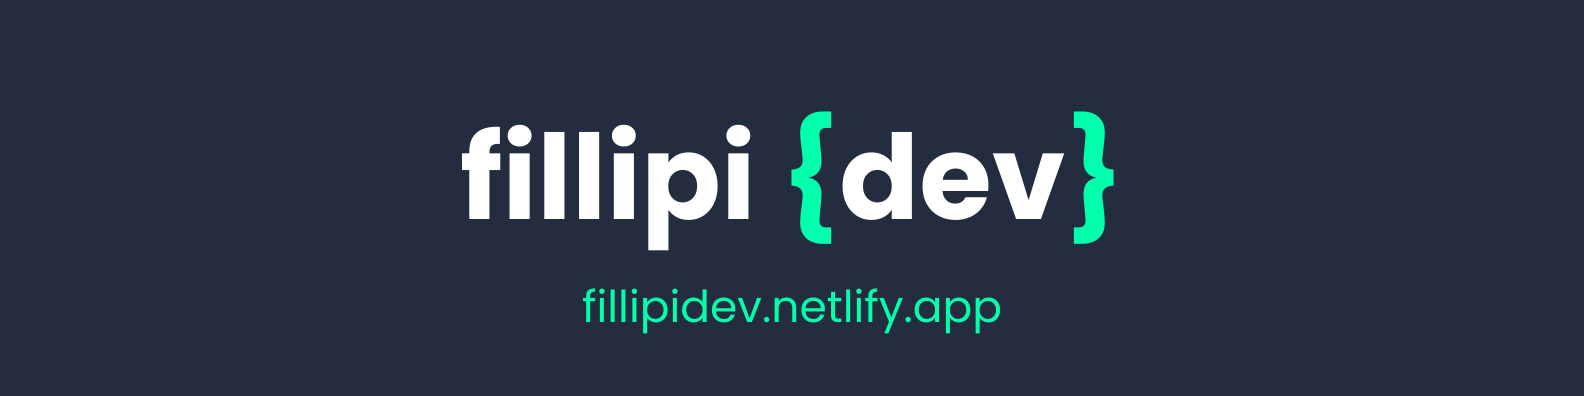
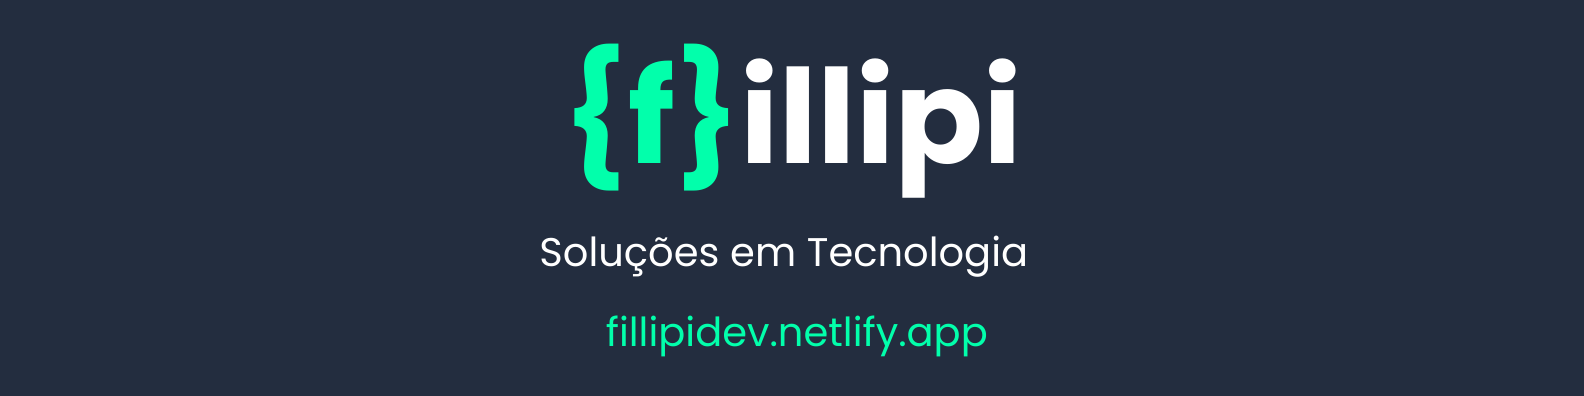
ajustando identidade visual metatag e css

Changed region(s): [[0.2784, 0.0909, 0.7115, 0.697], [0.3712, 0.7273, 0.6496, 0.9091]]

diff --git a/index.html b/index.html
@@ -7,19 +7,19 @@
     <meta name="viewport" content="width=device-width, initial-scale=1.0"/>
     <meta http-equiv="X-UA-Compatible" content="IE=edge"/>
     <meta name="author" content="@fillipidev"/>
-    <meta name="keywords" content="fillipi{dev}"/>
-    <meta name="description" content="fillipi{dev} - Soluções em Tecnologia"/>
+    <meta name="keywords" content="Fillipi - Soluções em Tecnologia"/>
+    <meta name="description" content="Fillipi - Soluções em Tecnologia"/>
     <meta property="og:locale" content="pt_BR"/>
-    <meta property="og:title" content="fillipi{dev}"/>
-    <meta property="og:description" content="Fillipi{dev} - Soluções em Tecnologia"/>
-    <meta property="og:site_name" content="fillipi{dev}"/>
+    <meta property="og:title" content="Fillipi - Soluções em Tecnologia"/>
+    <meta property="og:description" content="Fillipi - Soluções em Tecnologia"/>
+    <meta property="og:site_name" content="Fillipi - Soluções em Tecnologia"/>
     <meta property="og:type" content="website"/>
-    <meta property="og:image:alt" content="fillipi{dev}"/>
+    <meta property="og:image:alt" content="Fillipi - Soluções em Tecnologia"/>
     <meta property="og:url" content="https://fillipi.netlify.app"/>
     <meta property="og:image" content="./img/metatag.png"/>
     <meta name="twitter:card" content="summary_large_image"/>
-    <meta name="twitter:title" content="fillipi{dev}"/>
-    <meta name="twitter:description" content="Fillipi{dev} - Soluções em Tecnologia"/>
+    <meta name="twitter:title" content="Fillipi - Soluções em Tecnologia"/>
+    <meta name="twitter:description" content="Fillipi - Soluções em Tecnologia"/>
     <meta name="twitter:site" content="https://fillipi.netlify.app"/>
     <meta name="twitter:creator" content="@fillipidev"/>
     <meta name="twitter:image" content="./img/metatag.png"/>
@@ -29,7 +29,7 @@
     <link rel="icon" type="image/png" sizes="32x32" href="./img/icone.png"/>
     <link rel="icon" type="image/png" sizes="16x16" href="./img/icone.png"/>
     <script src="./js/font-awesome.js" crossorigin="anonymous"></script>
-    <title>fillipi{dev}</title>
+    <title>Fillipi - Soluções em Tecnologia</title>
 </head>
 <body>
     <div id="indicador-navegacao"></div>
@@ -58,20 +58,13 @@
 
     <section class="perfil">
         <figure id="perfil-img" class="perfil-img">
-            <img src="./img/perfil.jpg" alt="Foto do perfil" title="Foto do perfil">
+            <img src="./img/perfil.png" alt="Foto do perfil" title="Foto do perfil">
         </figure>
         <section class="perfil-info">
-            <h1 class="h1-perfil">Fillipi</h1>
+            <h1 class="h1-perfil">Fillipi Santos</h1>
             <aside class="aside-perfil">
-                <strong><p class="perfil-endereco">Desenvolvedor PHP</p></strong>
-                <p class="perfil-cidade">Bacharel em análise de sistemas.<br>Transformo problemas em soluções com linguagens de programação e afins.</p>
-                <!-- <ul class="perfil-mapa">
-                    <li>
-                        <a class="link-span-perfil" target="_blank" href="https://www.google.com/maps/search/R. Antônio Alves Cardoso, União dos Palmares">
-                            <span><i class="fa-solid fa-location-dot"></i>Solicitar Demonstração</span>
-                        </a>
-                    </li>
-                </ul> -->
+                <strong><p class="perfil-endereco">Soluções em Tecnologia</p></strong>
+                <p class="perfil-cidade">Bacharel em análise de sistemas.</p>
                 <ul class="perfil-btn">
                     <li>
                         <a class="btn-principal" target="_blank" href="https://api.whatsapp.com/send?phone=5582999506256">
@@ -109,12 +102,40 @@
     </section>
 
     <section class="titles">
+        <h1>Transformo problemas em soluções com linguagens de programação desde 2018.</h1>
+    </section>
+
+    <section class="section-valores">
+        <div class="valores-itens">
+            <div class="valores-i">
+                <i class="fa fa-flag" aria-hidden="true"></i>
+            </div>
+            <h2>Missão</h2>
+            <p>Auxiliar empresas e indivíduos a expandirem suas presenças digitais por meio de soluções web inovadoras e acessíveis.</p>
+        </div>
+        <div class="valores-itens">
+            <div class="valores-i">
+                <i class="fa fa-eye" aria-hidden="true"></i>
+            </div>
+            <h2>Visão</h2>
+            <p>Ser referência em desenvolvimento de sistemas web, reconhecida pela excelência, inovação e transformação digital de empresas e indivíduos.</p>
+        </div>
+        <div class="valores-itens">
+            <div class="valores-i">
+                <i class="fa fa-diamond" aria-hidden="true"></i>
+            </div>
+            <h2>Valores</h2>
+            <p>Inovação, Qualidade, Transparência, Colaboração, Sustentabilidade, Foco no Cliente e Crescimento Contínuo.</p>
+        </div>
+    </section>
+
+    <section class="titles">
         <h1>Projetos Recentes</h1>
     </section>
     
     <section class="projetos">
         <div class="item-projeto">
-            <img src="./img/logo.png" alt="fillipidev" title="fillipidev">
+            <img src="./img/icone.png" alt="fillipidev" title="fillipidev">
             <h2><a href="#fillipidev">Este Site<i class="fa fa-link" aria-hidden="true"></i></a></h2>
         </div>
         <div class="item-projeto">
@@ -132,8 +153,8 @@
         <h3><a href="mailto:fillipideveloper@gmail.com">fillipideveloper@gmail.com</a></h3>
     </section>
 
-    <footer class="titles footer">
-        <h3 class="footer-p">fillipi{dev} © 2024</h3>
+    <footer class="footer">
+        <h3>2018-2024 © {f}illipi<br>Soluções em Tecnologia</h3>
     </footer>
 
     <script>

diff --git a/css/main.css b/css/main.css
@@ -1,16 +1,16 @@
 :root {
-    --cor-azul: #232d3f;
+    --cor-primaria: #232d3f;
+    --cor-secundaria: #02ffab;
     --cor-branca: #ffffff;
     --cor-cinza: #7c7c7c;
     --cor-cinza-claro: #f8f8f8;
     --cor-preta: #141318;
-    --cor-verde: #02ffab;
     --cor-vermelha: #dd2c00;
 }
 
 /* percentual de navegacao */
 #indicador-navegacao {
-    background-color: var(--cor-verde);
+    background-color: var(--cor-secundaria);
     height: .35rem;
     width: 0;
     position: fixed;
@@ -19,14 +19,14 @@
 
 body {
     background-color: var(--cor-cinza-claro);
-    color: var(--cor-azul);
+    color: var(--cor-primaria);
 }
 
 i {
     margin-left: 1em;
     margin-right: 1em;
     font-size: 20px;
-    color: var(--cor-verde);
+    color: var(--cor-secundaria);
 }
 
 img {
@@ -62,7 +62,7 @@ header img {
     max-width: 100%;
     height: auto;
     width: 200px;
-    border-radius: 18px;
+    border-radius: 50%;
 }
 
 .perfil-info {
@@ -80,11 +80,11 @@ header img {
 }
 
 .perfil-mapa, a {
-    color: var(--cor-azul);
+    color: var(--cor-primaria);
 }
 
 .perfil-btn i {
-    color: var(--cor-azul);
+    color: var(--cor-primaria);
 }
 
 .perfil-btn {
@@ -96,7 +96,6 @@ header img {
     cursor: pointer;
     display: inline-block;
     text-align: center;
-    text-decoration: none;
     text-transform: uppercase;
     white-space: nowrap;
     font-size: 1.3rem;
@@ -108,9 +107,18 @@ header img {
     text-overflow: ellipsis;
     overflow: hidden;
     overflow: hidden;
-    box-shadow: inset 0 0 0 1px var(--cor-verde);
-    background-color: var(--cor-verde);
-    color: var(--cor-azul);
+    box-shadow: inset 0 0 0 1px var(--cor-secundaria);
+    background-color: var(--cor-secundaria);
+    color: var(--cor-primaria);
+}
+
+.perfil-btn:hover a {
+    text-decoration: none !important;
+}
+
+.perfil-btn:hover {
+    border: transparent solid var(--cor-primaria);
+    box-shadow: inset 0 0 0 2px var(--cor-primaria);
 }
 
 .media-social {
@@ -124,7 +132,36 @@ header img {
     display: flex;
     justify-content: center;
     align-items: center;
-    margin: 5em 0;
+    margin: 6em 4em;
+}
+
+.section-valores {
+    display: flex;
+    flex-wrap: wrap;
+    justify-content: revert-layer;
+    align-items: stretch;
+    margin: 5em 4em;
+}
+
+.fa-flag, .fa-eye, .fa-diamond {
+    color: var(--cor-primaria);
+    margin-top: 1em;
+    margin-bottom: 1em;
+    font-size: 28px;
+}
+
+.valores-itens {
+    flex: 1;
+    text-align: center;
+    border-radius: 18px;
+    padding: 2em;
+    margin: 1em;
+    background-color: var(--cor-secundaria);
+}
+
+.valores-itens > h2 {
+    margin-top: 1em;
+    margin-bottom: 1em;
 }
 
 .projetos {
@@ -144,7 +181,8 @@ header img {
 }
 
 .footer {
-    color: var(--cor-verde);
+    text-align: center;
+    color: var(--cor-secundaria);
     margin-top: 10em;
     margin-bottom: 10em;
 }

diff --git a/README.md b/README.md
@@ -1,4 +1,4 @@
-# fillipi {dev} :sunglasses:
+# Fillipi - Soluções em Tecnologia :sunglasses:
 Desenvolvedor PHP.
 Bacharel em análise de sistemas.
-Transformo problemas em soluções com linguagens de programação e afins.
+Transformo problemas em soluções com linguagens de programação desde 2018.
